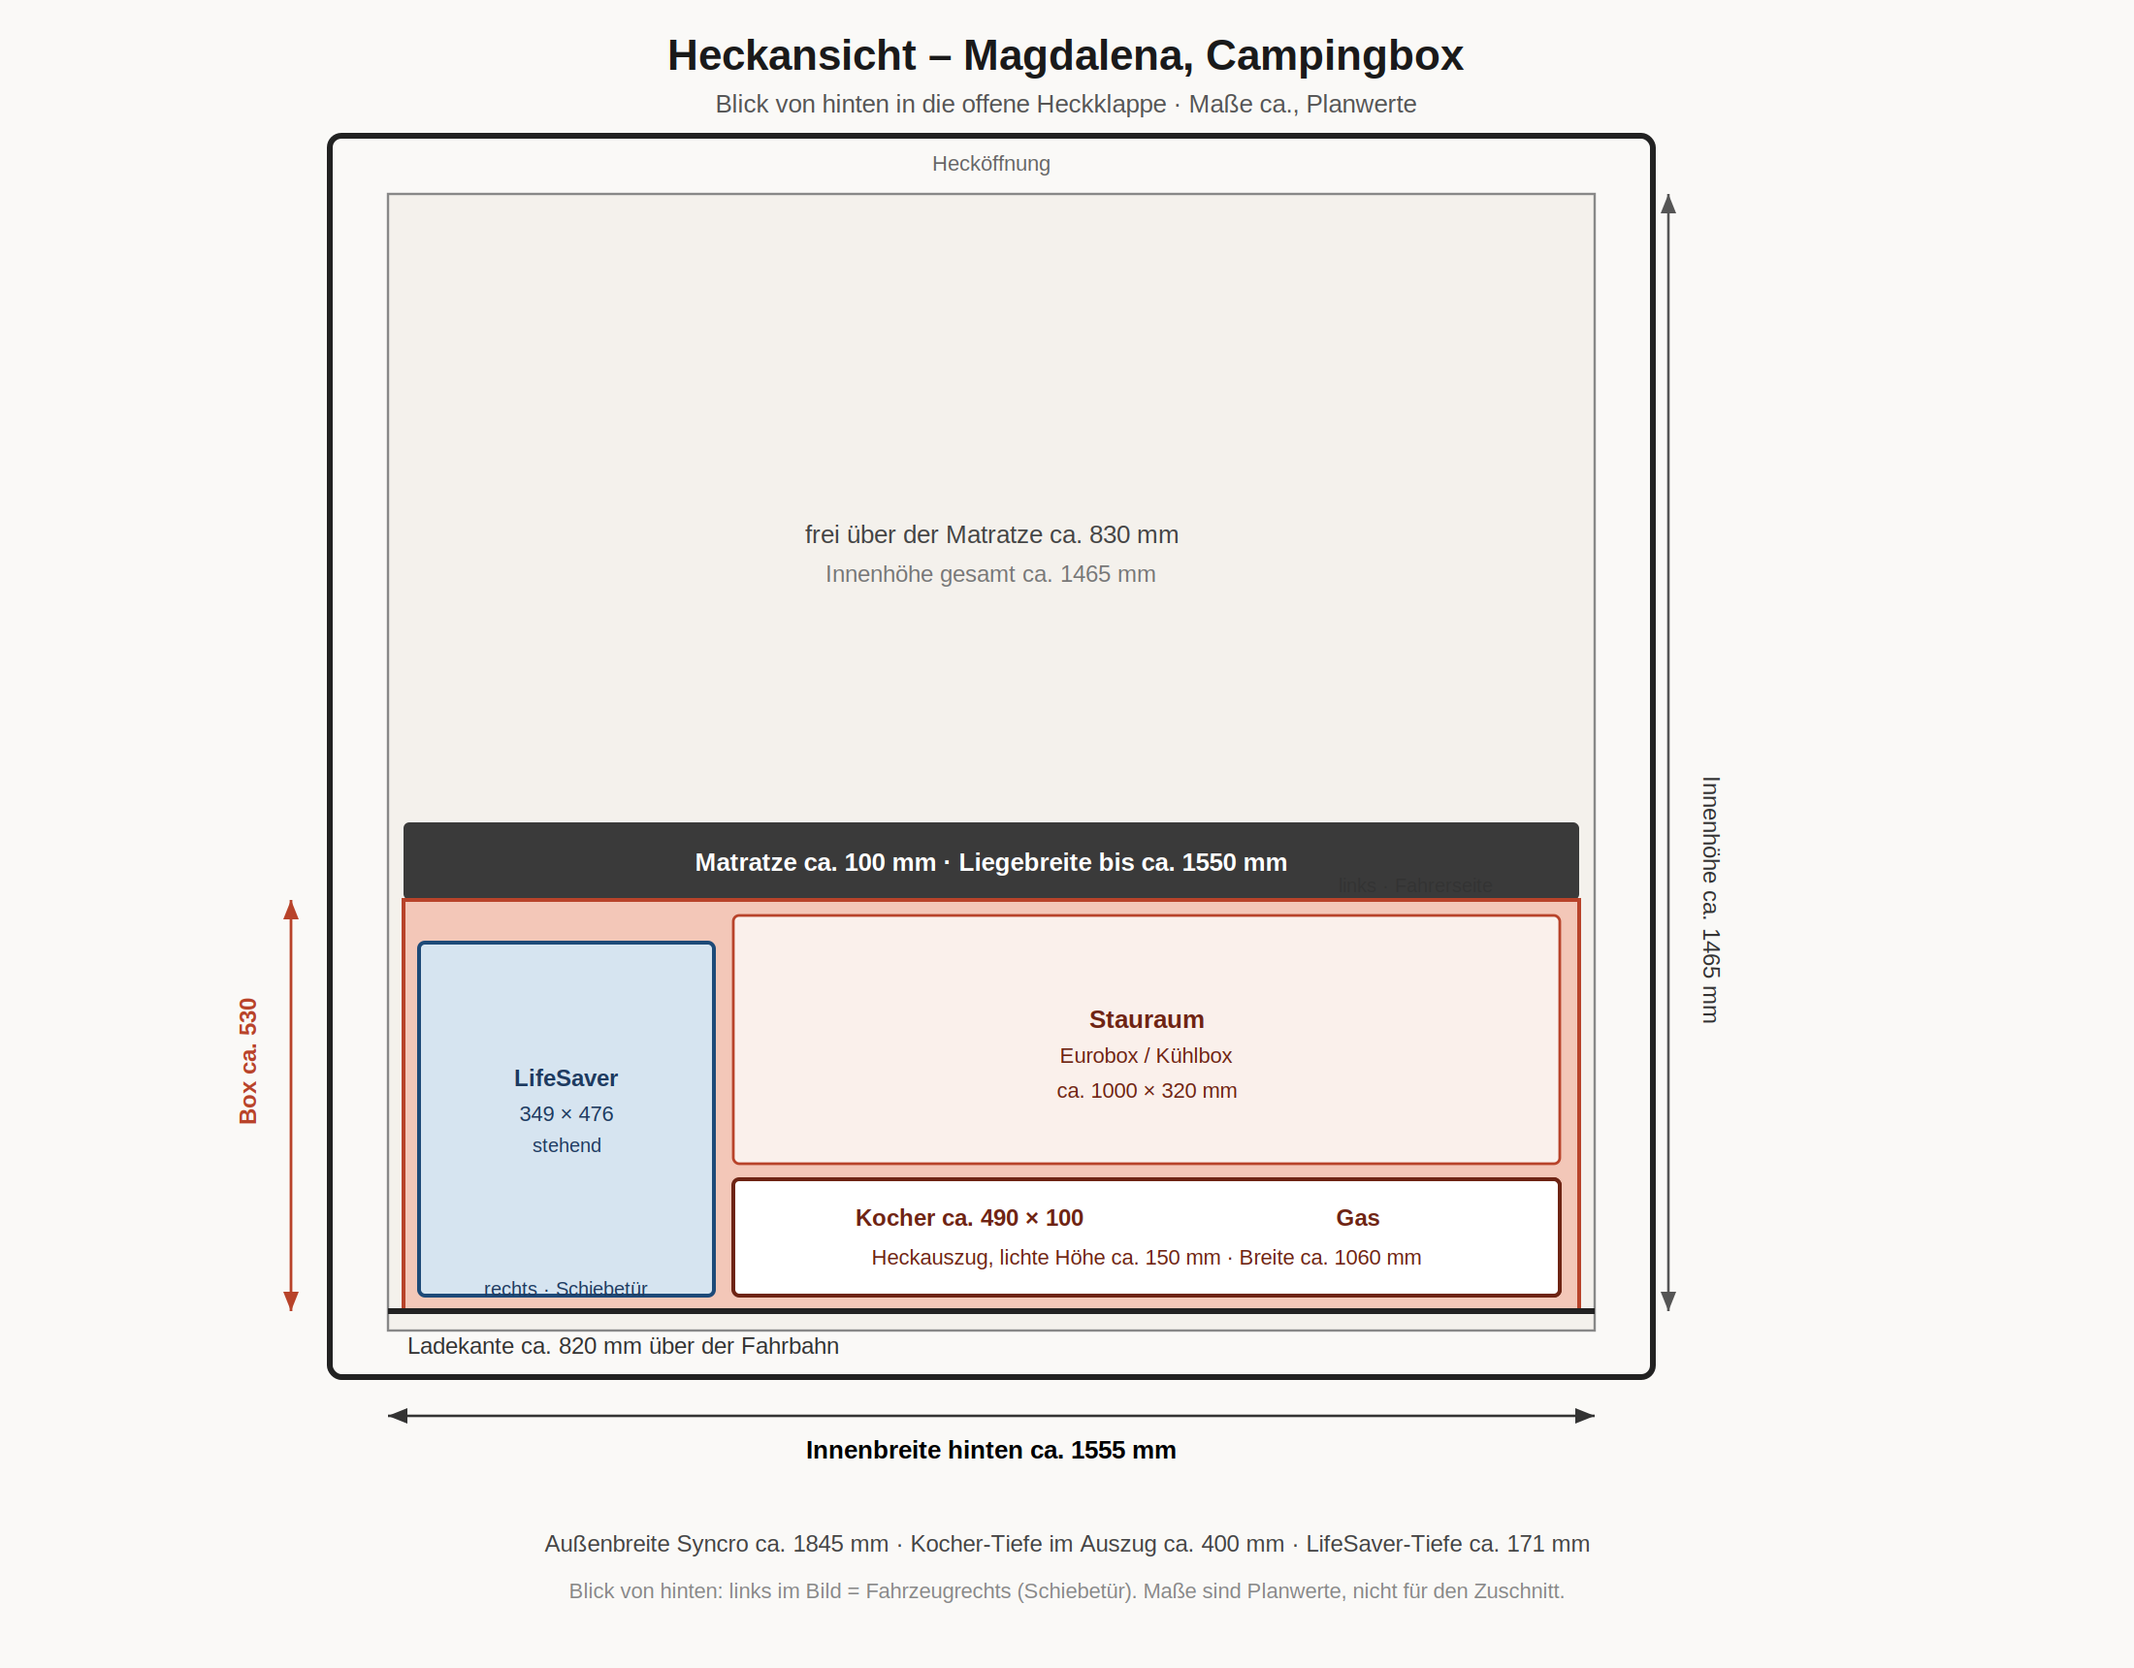
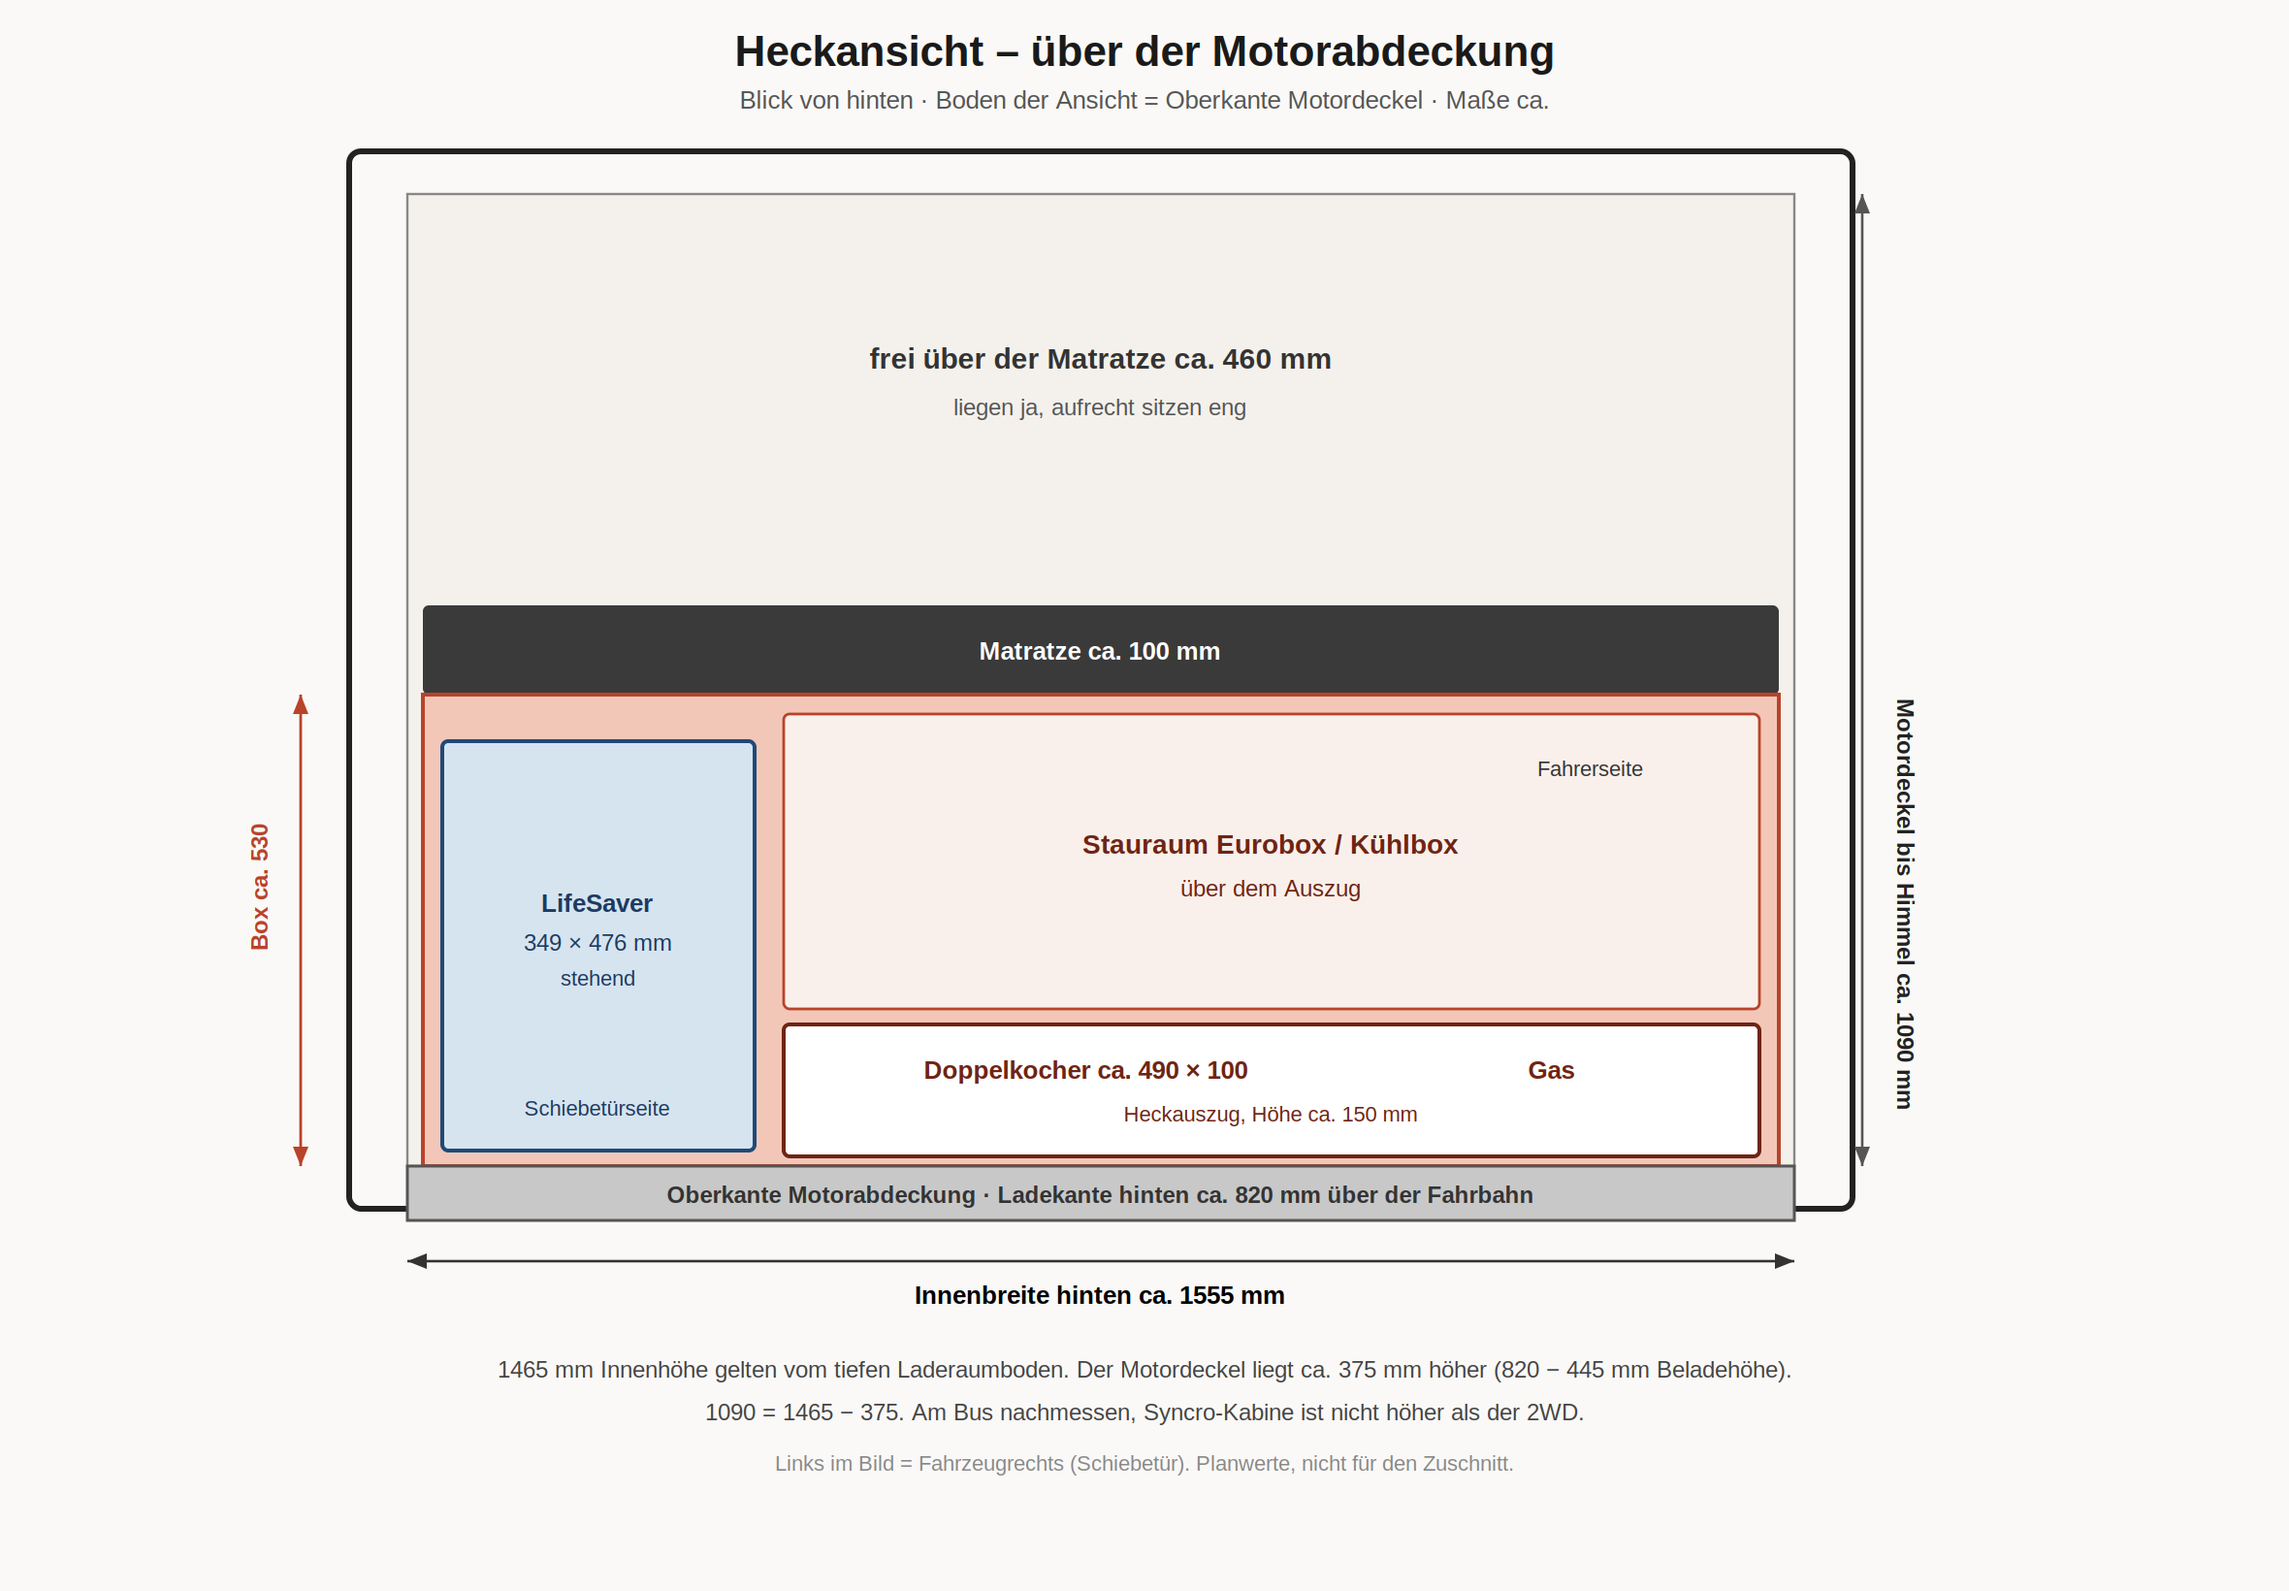
Measure rear headroom from the engine cover
The 1465 mm interior height starts at the low floor. Above the rear
engine deck only about 1090 mm remain, leaving roughly 460 mm over the mattress.

Changed region(s): [[0.0927, 0.0, 0.8345, 0.964], [0.3709, 0.2177, 0.5873, 0.2799]]

diff --git a/docs/t3-syncro-camping-referenz.md b/docs/t3-syncro-camping-referenz.md
@@ -91,7 +91,10 @@ Karosserieinnenraum von Kastenwagen, Kombi und Bus ist im Rohbau gleich; Sitze u
 | Laderaumbreite hinten (max.) | **1555 mm** | militärfahrzeuge.ch |
 | Schiebetür-Öffnung Breite | **1060 mm** | militärfahrzeuge.ch |
 | Schiebetür-Öffnung Höhe | **1315 mm** | militärfahrzeuge.ch |
-| Innenhöhe Laderaum (Normaldach) | **1465 mm** | Wikipedia T3 / militärfahrzeuge.ch |
+| Innenhöhe Laderaum (Normaldach, tiefer Boden) | **1465 mm** | Wikipedia T3 / militärfahrzeuge.ch |
+| Beladehöhe seitlich / hinten | ca. **445 / 820 mm** | militärfahrzeuge.ch |
+| Motordeckel über dem tiefen Boden | ca. **375 mm** | 820 − 445 |
+| **Oberkante Motordeckel bis Himmel** | ca. **1090 mm** | 1465 − 375; gilt für die Heckansicht |
 | Beladehöhe Heckklappe | ca. **820 mm** über Fahrbahn | militärfahrzeuge.ch |
 | Beladehöhe Schiebetür | ca. **445 mm** | militärfahrzeuge.ch |
 
@@ -254,7 +257,8 @@ Bezug: Multivan-Werksbett **1880 × 1600 mm**; verfügbare Heckzone hinter Reihe
 | Matratze | 2× 70 cm oder 1× 140–155 × 190 cm, 10–12 cm | belüftet (Latten / Noppenfolie) |
 | Box-Höhe Außen | **ca. 530 mm** | LifeSaver stehend 476 mm + Boden/Deckel; vorher 450–550 |
 | Zone über Motor | Aussparung / Klappe **~910 × 1190 mm** | analog Westfalia-Motorraumpolster |
-| Innenhöhe über Matratze | Rest aus **1465 mm** − Box − Matratze ≈ **900–1000 mm** | sitzend ok, nicht stehend |
+| Höhe über dem Motordeckel | ca. **1090 mm** bis Himmel | Heckansicht; 1465 mm sind der tiefe Boden weiter vorn |
+| Frei über der Matratze hinten | ca. **460 mm** | 1090 − Box 530 − Matratze 100; liegen ja, aufrecht sitzen eng |
 | Gewicht Box leer | **Ziel ≤ 40–50 kg** | handhabbar zu zweit |
 | Stauraum unter Deckel | Eurobox 600×400 Raster | 2–3 Boxen quer/längs + Kühlbox-Fach |
 
@@ -525,6 +529,7 @@ Suchkriterien:
 | 2026-09-22 | LifeSaver Jerrycan 18,5 l als stehendes Heckfach eingeplant; Boxhöhe ca. 530 mm |
 | 2026-09-24 | Doppel-Gaskocher im Heckauszug eingeplant (Fach ≥ 560×400×150 mm) |
 | 2026-09-24 | Heckansicht mit ca.-Maßen (Breite, Höhe, Box, LifeSaver, Kocher) |
+| 2026-09-24 | Heckhöhe korrigiert: ca. 1090 mm ab Motordeckel, nicht 1465 mm ab tiefem Boden |
 
 ---
 
